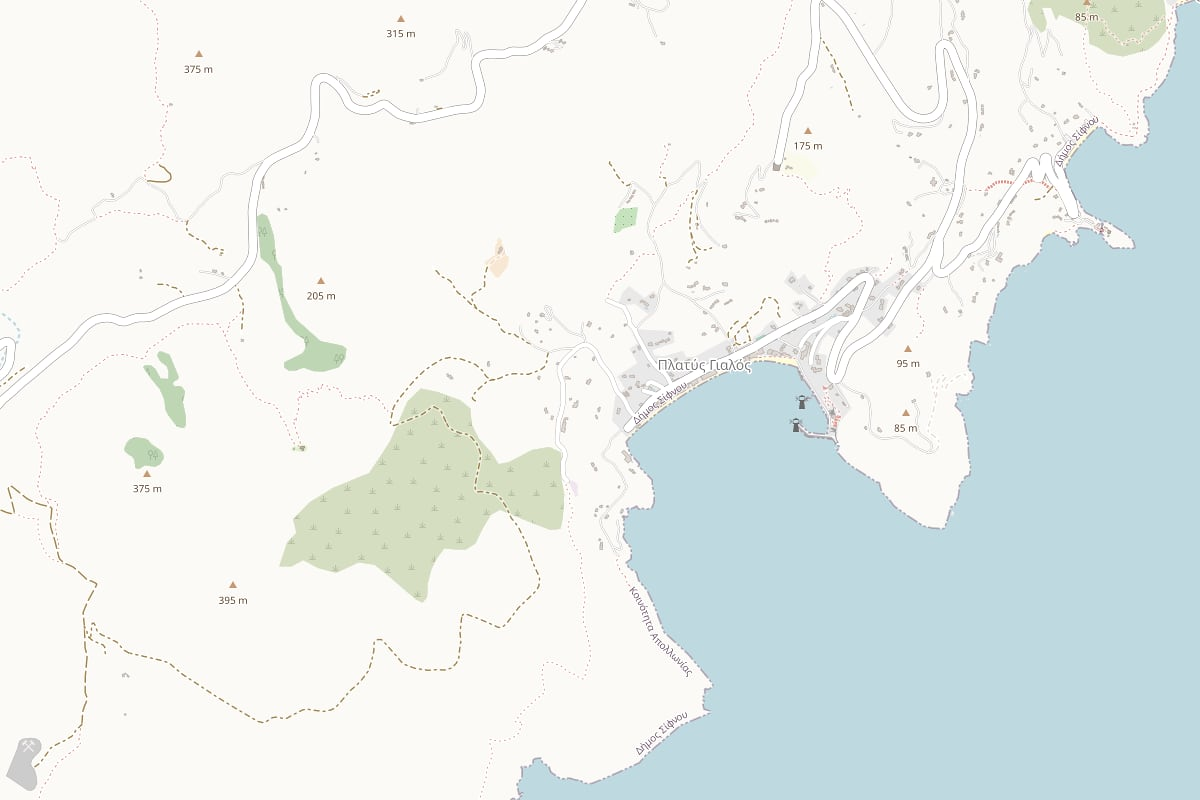
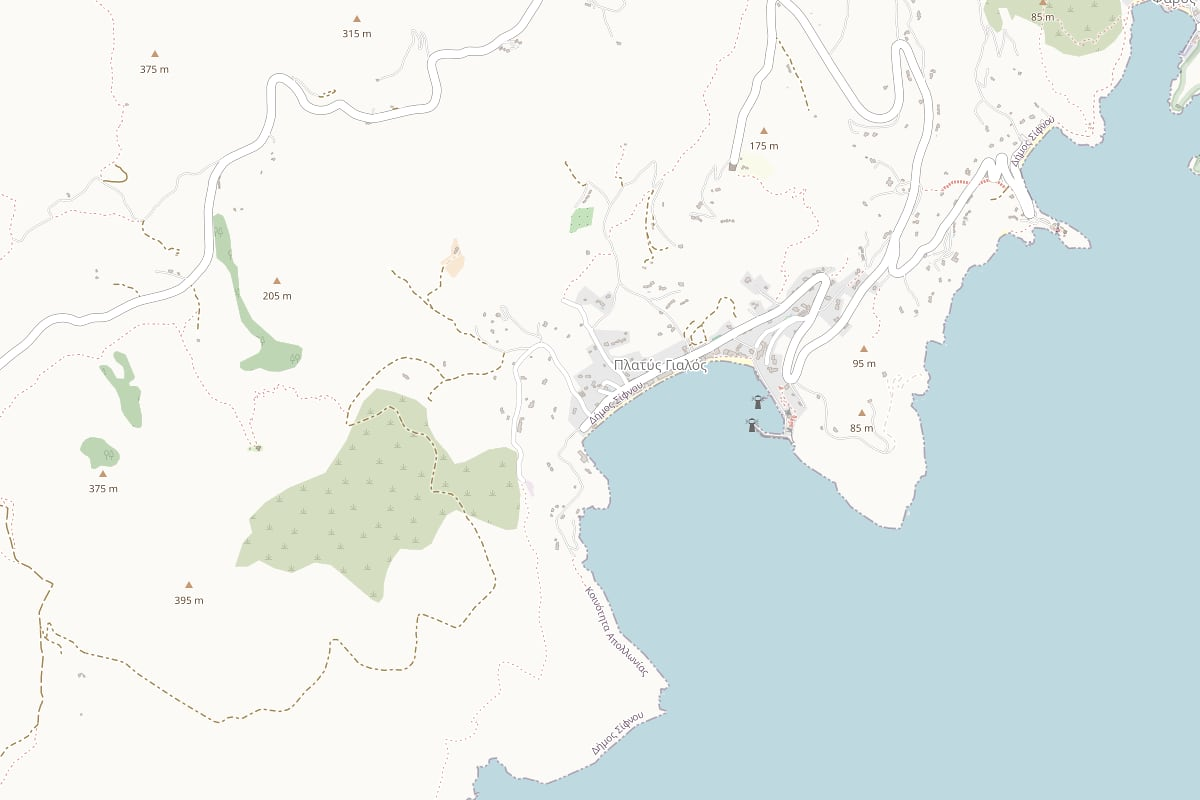
fix(map): put the pin on the property at 36.930610, 24.727143
The previous centre (24.72456) sat about 230 m west along the beach. Update the
geo point, directions destination, Google embed camera centre and the static
OpenStreetMap preview together, and show the coordinates at full precision in
the map card.

diff --git a/src/data/property.ts b/src/data/property.ts
@@ -19,7 +19,7 @@ export const property = {
    * Taken from the owner's Google Maps embed (place ID
    * 0x1498f262c6d36733:0x8f980a6f21df8778), not a beach centroid.
    */
-  geo: { lat: 36.93063, lng: 24.72456 },
+  geo: { lat: 36.93061, lng: 24.727143 },
   mte: '1026599',
   phones: {
     landline: '+302106829583',
@@ -34,10 +34,10 @@ export const property = {
   email: '',
   /** Google Maps listing (reviews included). */
   geoUrl: 'https://www.google.com/maps?cid=10347031616309659512',
-  directionsUrl: 'https://www.google.com/maps/dir/?api=1&destination=36.93063%2C24.72456',
+  directionsUrl: 'https://www.google.com/maps/dir/?api=1&destination=36.93061%2C24.727143',
   /** Embed "pb" parameter for the property's own listing. */
   mapEmbedPb:
-    '!1m18!1m12!1m3!1d3189.3153558468684!2d24.724556377273363!3d36.93063077221019!2m3!1f0!2f0!3f0!3m2!1i1024!2i768!4f13.1!3m3!1m2!1s0x1498f262c6d36733%3A0x8f980a6f21df8778!2sLeandros%20Apartments!5e0!3m2!1sen!2sgb!4v1747576151731!5m2!1sen!2sgb',
+    '!1m18!1m12!1m3!1d3189.3153558468684!2d24.727143!3d36.93061!2m3!1f0!2f0!3f0!3m2!1i1024!2i768!4f13.1!3m3!1m2!1s0x1498f262c6d36733%3A0x8f980a6f21df8778!2sLeandros%20Apartments!5e0!3m2!1sen!2sgb!4v1747576151731!5m2!1sen!2sgb',
   /** Static preview generated by scripts/build-map-preview.mjs. */
   mapPreview: '/map/platys-gialos.jpg',
   priceRange: '€60–€135',

diff --git a/README.md b/README.md
@@ -361,7 +361,7 @@ the map”, so no third-party request happens on page load.
 - The preview is a static image generated from OpenStreetMap tiles and committed
   to `public/map/platys-gialos.jpg`, with the required attribution shown on the
   card.
-- Coordinates (`36.93063, 24.72456`) live in `src/data/property.ts` together
+- Coordinates (`36.93061, 24.727143`) live in `src/data/property.ts` together
   with the Google embed parameter, the listing URL (`cid=…`) and the directions
   URL.
 - If the listing moves or the preview needs refreshing, update `property.ts`,
